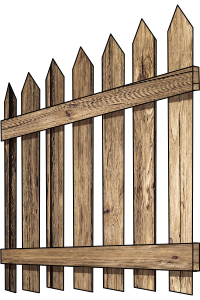
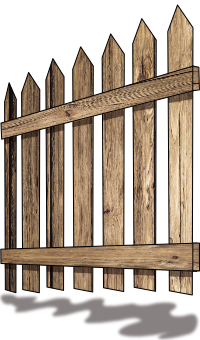
Dodao oblake i sjenu ograde

diff --git a/igraScena.m b/igraScena.m
@@ -29,6 +29,7 @@
     [self dodajMenuNode];
     [self dodajBackground];
     [self dodajOgradu];
+    [self dodajOblak];
     
 
 
@@ -131,7 +132,7 @@
     
     SKSpriteNode *ograda = [SKSpriteNode spriteNodeWithImageNamed:@"ograda"];
     ograda.size = CGSizeMake(self.size.width/2-50, self.size.height/2);
-    ograda.position = CGPointMake(self.size.width-ograda.size.width/2 - 5, self.size.height/2.7);
+    ograda.position = CGPointMake(self.size.width-ograda.size.width/2 - 5, self.size.height/2.8);
     ograda.name = @"ograda";
     ograda.zPosition = 2;
     [self addChild:ograda];
@@ -141,8 +142,22 @@
     kuca.position = CGPointMake(kuca.size.width/2+30, trava.size.height-10 + kuca.size.height/2);
     kuca.zPosition = 2;
     [self addChild:kuca];
+ 
+}
+
+-(void) dodajOblak{
+
+    oblak1 = [SKSpriteNode spriteNodeWithImageNamed:@"oblak1"];
+    oblak1.size = CGSizeMake(160, 80);
+    oblak1.position = CGPointMake(self.size.width, self.size.height/1.3);
+    oblak1.zPosition = 1;
+    [self addChild:oblak1];
     
-    
+    oblak2 = [SKSpriteNode spriteNodeWithImageNamed:@"oblak2"];
+    oblak2.size = CGSizeMake(160, 80);
+    oblak2.position = CGPointMake(self.size.width+120, self.size.height/1.4);
+    oblak2.zPosition = 1;
+    [self addChild:oblak2];
 
 
 }
@@ -222,7 +237,29 @@
     
     }
 
-
+    CGPoint op= oblak1.position;
+    op.x-=0.4;
+    
+    if(op.x<-oblak1.size.width){
+        op.x = self.size.width + oblak1.size.width/2;
+        op.y = self.size.height/2 + arc4random() % 300;
+        NSString *imeOblaka = [NSString stringWithFormat:@"oblak%d",arc4random() % 5 + 1];
+        [oblak1 setTexture:[SKTexture textureWithImageNamed:imeOblaka]];
+    }
+        
+    oblak1.position = op;
+    
+    op= oblak2.position;
+    op.x-=0.3;
+    
+    if(op.x<-oblak2.size.width){
+        op.x = self.size.width + oblak2.size.width/2;
+        op.y = self.size.height/2 + arc4random() % 300;
+        NSString *imeOblaka = [NSString stringWithFormat:@"oblak%d",arc4random() % 5 + 1];
+        [oblak2 setTexture:[SKTexture textureWithImageNamed:imeOblaka]];
+    }
+    
+    oblak2.position = op;
 
 }
 

diff --git a/igraScena.h b/igraScena.h
@@ -13,7 +13,7 @@
     SKAction *repeatCup;
     SKAction *repeatLet;
     bool cupka,leti;
-
+    SKSpriteNode *oblak1, *oblak2;
 }
 
 @end
